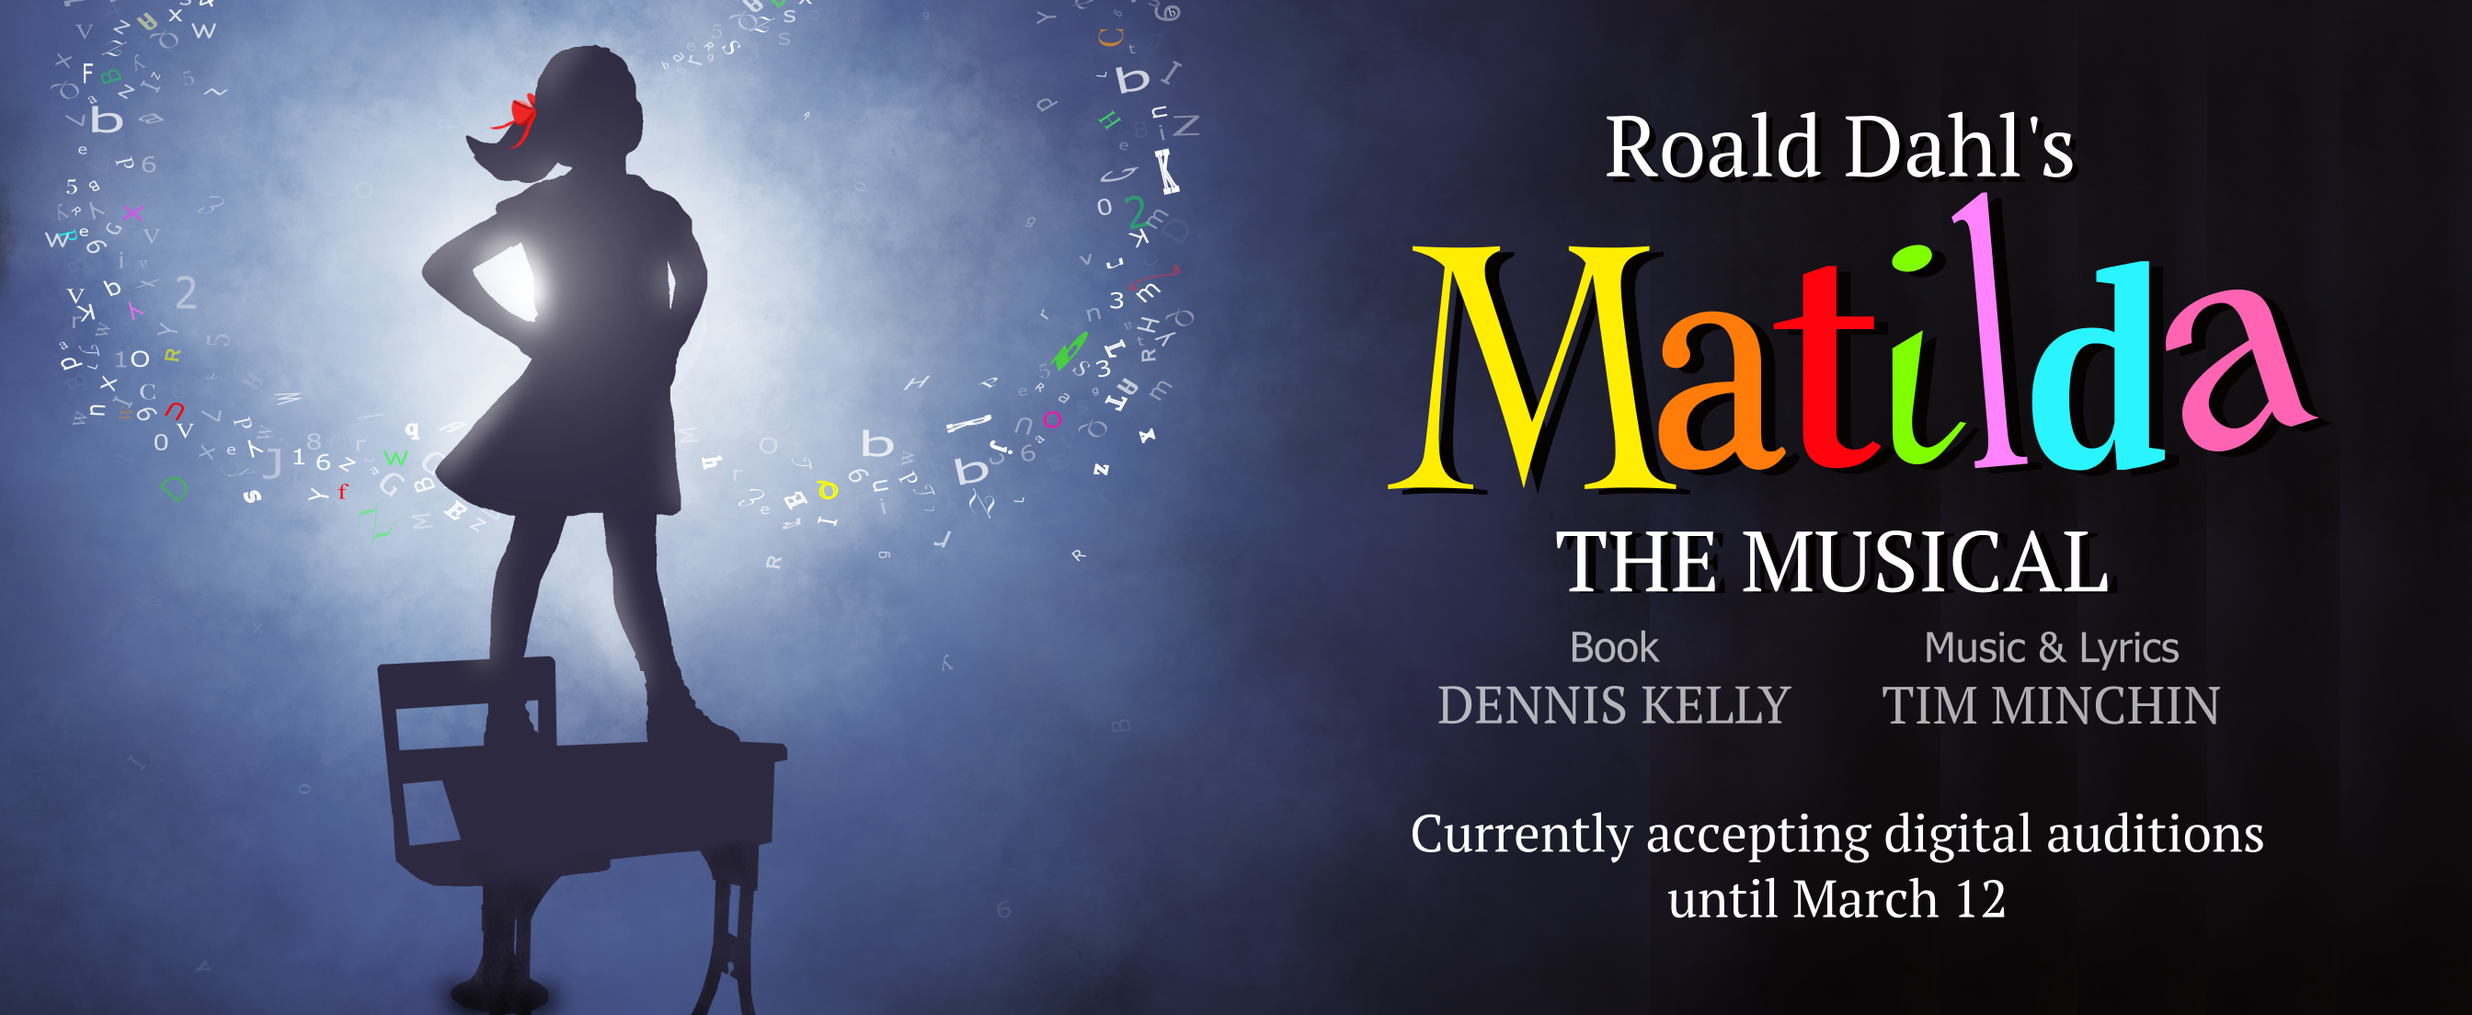
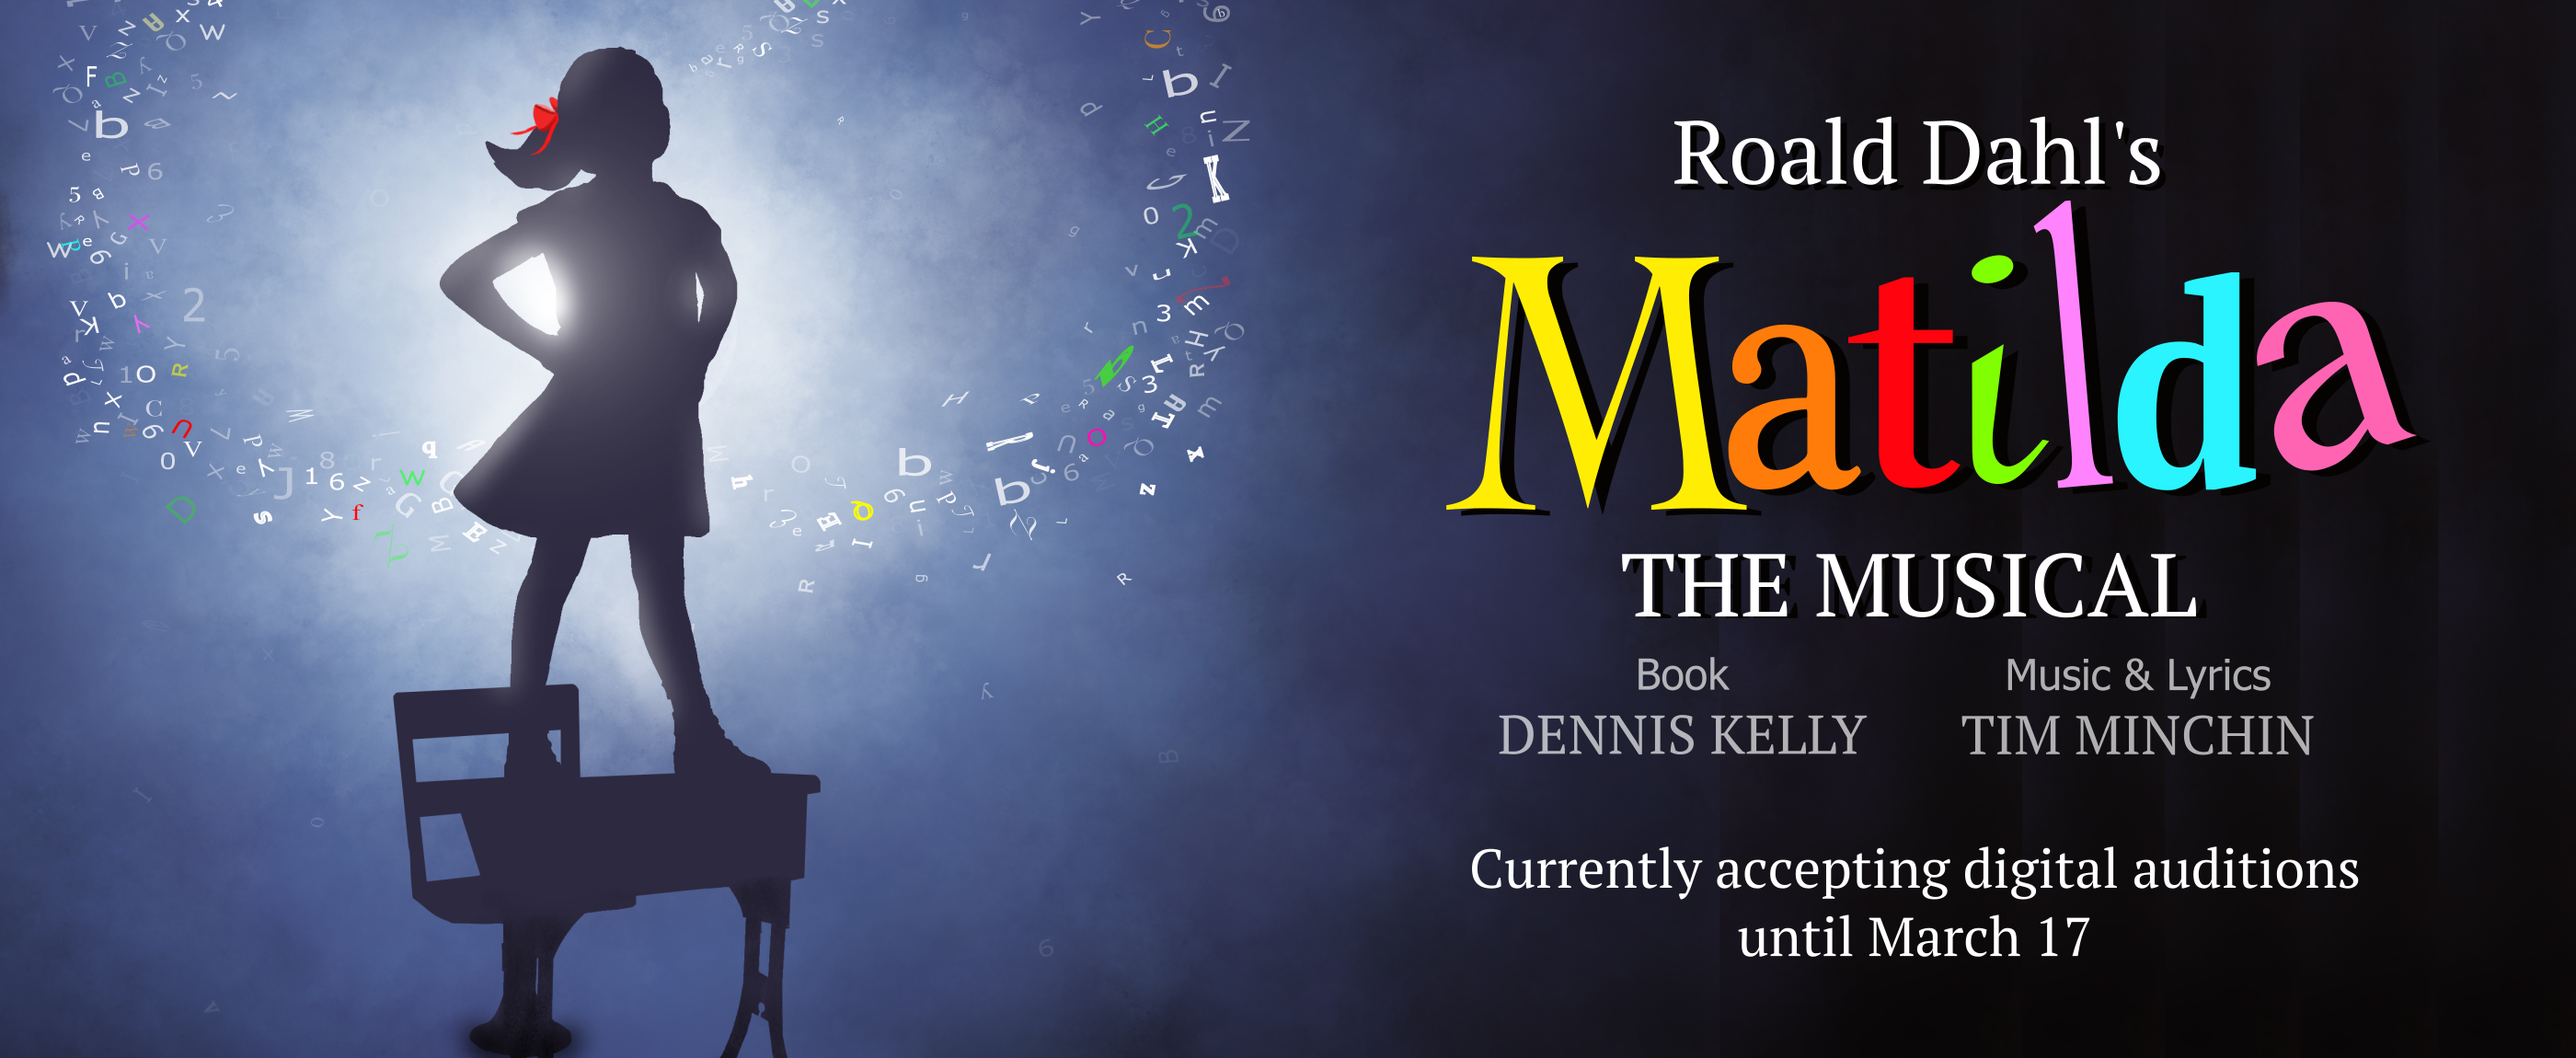
Update dates

Changed region(s): [[0.7812, 0.8623, 0.8125, 0.8931], [0.6875, 0.8623, 0.7188, 0.8931], [0.625, 0.8007, 0.6562, 0.8315]]

diff --git a/links/matilda-information.html b/links/matilda-information.html
@@ -61,12 +61,12 @@
 										<h3>Matilda the Musical</h3>
 									</header>
 									<p>
-										"Matilda the Musical" is a captivating stage adaptation of Roald Dahl's beloved children's novel, 
-										brought to life with whimsy, wit, and a touch of magic. Set in the heart of a darkly humorous world, 
-										the musical follows the extraordinary journey of Matilda Wormwood, a precocious young girl 
-										armed with intelligence, courage, and an unyielding spirit. With an enchanting score by 
-										Tim Minchin, the production unfolds as Matilda navigates the challenges of family, school, 
-										and self-discovery, ultimately triumphing over adversity and inspiring audiences of all 
+										"Matilda the Musical" is a captivating stage adaptation of Roald Dahl's beloved children's novel,
+										brought to life with whimsy, wit, and a touch of magic. Set in the heart of a darkly humorous world,
+										the musical follows the extraordinary journey of Matilda Wormwood, a precocious young girl
+										armed with intelligence, courage, and an unyielding spirit. With an enchanting score by
+										Tim Minchin, the production unfolds as Matilda navigates the challenges of family, school,
+										and self-discovery, ultimately triumphing over adversity and inspiring audiences of all
 										ages with its empowering message of resilience and the transformative power of imagination.
 									</p>
 									<footer>
@@ -106,7 +106,7 @@
 										<div class="col-8">
 											<h4>Choreographer: Annabelle Hibbard</h4>
 											<p>
-												Annabelle has been in theatre and dance her whole life, adding choreography to the mix in her college days. She is excited to work with the wonderful members of the community to bring to life the meaning of Matilda. 
+												Annabelle has been in theatre and dance her whole life, adding choreography to the mix in her college days. She is excited to work with the wonderful members of the community to bring to life the meaning of Matilda.
 											</p>
 										</div>
 										<div class="col-4">
@@ -115,7 +115,7 @@
 										<div class="col-8">
 											<h4>Stage Manager: Lizzy Pingry</h4>
 											<p>
-												Lizzy loves the back-stage tech life! She has stage managed or run tech for several shows and loves working with the amazing production team and actors. 
+												Lizzy loves the back-stage tech life! She has stage managed or run tech for several shows and loves working with the amazing production team and actors.
 											</p>
 										</div>
 										<div class="col-4">
@@ -124,7 +124,7 @@
 										<div class="col-8">
 											<h4>Assistant Stage Manager: Austin Griggs</h4>
 											<p>
-												
+
 											</p>
 										</div>
 										<div class="col-4">
@@ -159,7 +159,7 @@
 										</p>
 									</header>
 									<p>
-										<strong>Performance Dates: </strong>June 21st, 22nd (matinee and evening performance), & 24th, 2024 @ Madison Performing Arts Center. 
+										<strong>Performance Dates: </strong>June 21st, 22nd (matinee and evening performance), & 24th, 2024 @ Madison Performing Arts Center.
 										<li>
 											Evening Performances will be at 7:00pm, Matinee at 2:00pm
 										</li>
@@ -167,7 +167,7 @@
 									<p>
 										<strong>Rehearsals</strong> - held on Tuesday, Wednesday and Thursday evenings from 6:00-9:00 PM beginning <strong>with a mandatory cast/parent meeting Tuesday, April 2nd</strong>
 										<li>
-											Additional rehearsals will be added on Friday evenings and Saturday mornings during the month of June. 
+											Additional rehearsals will be added on Friday evenings and Saturday mornings during the month of June.
 										</li>
 										<li>
 											A detailed rehearsal schedule will be provided via email once the show has been cast.
@@ -185,9 +185,9 @@
 										</p>
 									</header>
 									<p>
-										Welcome to the auditions for "Matilda the Musical"! We are excited you are here and to announce 
-										that auditions for our upcoming production will be initially held digitally this year. In person 
-										auditions will be by invitation ONLY and will be held at the VFW. Please review the information below for 
+										Welcome to the auditions for "Matilda the Musical"! We are excited you are here and to announce
+										that auditions for our upcoming production will be initially held digitally this year. In person
+										auditions will be by invitation ONLY and will be held at the VFW. Please review the information below for
 										details on how to prepare for your audition and how to submit your digital audition.
 									</p>
 
@@ -205,8 +205,8 @@
 										<li>
 											Children 8-17 MUST have parent or guardian signature on the Google Audition form
 										<li>
-											All initial auditions (digital) MUST be submitted online via the Google Form provided by 
-											MARCH 12 at 11:59pm. No Exceptions.
+											All initial auditions (digital) MUST be submitted online via the Google Form provided by
+											MARCH 17 at 11:59pm. No Exceptions.
 										</li>
 									</section>
 
@@ -215,8 +215,8 @@
 											<h3>Digital Auditions</h3>
 										</header>
 										<p>
-											Digital auditions for Matilda will consist of a vocal submission in video form as well as a 
-											dance submission video. There will be no monologue required for the digital audition. 
+											Digital auditions for Matilda will consist of a vocal submission in video form as well as a
+											dance submission video. There will be no monologue required for the digital audition.
 										</p>
 									</section>
 
@@ -225,11 +225,11 @@
 											<h3>Vocal Submission</h3>
 										</header>
 										<p>
-											Please prepare 16-32 bars of a vocal selection in the style of the show. Please DO NOT 
-											choose a song from the show. Be sure your selection shows off both your vocal ability 
-											in the range you are comfortable in and your storytelling abilities. Be sure the vocals 
-											can be heard clearly above any recorded or live accompaniment. The vocal audition must be 
-											recorded live. We do not want old choir concerts or show performance recordings submitted. 
+											Please prepare 16-32 bars of a vocal selection in the style of the show. Please DO NOT
+											choose a song from the show. Be sure your selection shows off both your vocal ability
+											in the range you are comfortable in and your storytelling abilities. Be sure the vocals
+											can be heard clearly above any recorded or live accompaniment. The vocal audition must be
+											recorded live. We do not want old choir concerts or show performance recordings submitted.
 											DO NOT exceed a 1 minute recording for your vocal audition submission.
 										</p>
 									</section>
@@ -239,14 +239,14 @@
 											<h3>Dance Submission</h3>
 										</header>
 										<p>
-											Please submit a recording of you performing the dance steps provided in the dance step 
-											tutorial found below. Be sure to be dressed appropriately and have plenty 
-											of room to perform the steps. The recording should give us a full view of the person 
-											performing the steps. Please be aware, we are looking for a group of experienced dancers 
-											to cast as well as ensemble members who will be performing less intense dance steps. Don’t be 
-											discouraged to audition if you are not a dancer. 
+											Please submit a recording of you performing the dance steps provided in the dance step
+											tutorial found below. Be sure to be dressed appropriately and have plenty
+											of room to perform the steps. The recording should give us a full view of the person
+											performing the steps. Please be aware, we are looking for a group of experienced dancers
+											to cast as well as ensemble members who will be performing less intense dance steps. Don’t be
+											discouraged to audition if you are not a dancer.
 
-											The purpose of this dance audition is to see your general ability to move. If every step is 
+											The purpose of this dance audition is to see your general ability to move. If every step is
 											not exactly correct, that’s OK. Please just do your best and have fun with it!
 										</p>
 										<div style="text-align: center;">
@@ -271,14 +271,14 @@
 											<h3>Callbacks - Live Auditions</h3>
 										</header>
 										<li>
-											Callbacks will be held in person on <strong>March 19, 20 with a final callback on March 23</strong>. You will be notified by email if you are 
-											called back. If you are called back, you will be given a specific time to attend. 
+											Callbacks will be held in person on <strong>March 19, 20 with a final callback on March 23</strong>. You will be notified by email if you are
+											called back. If you are called back, you will be given a specific time to attend.
 											<ul>
 												<li>
 													<strong>March 19: 6:00-9:00 PM</strong>   (If invited to this audition, all music sides and script sides will be provided. If you are invited for a further dance callback you will be notified to dress appropriately).
 												</li>
 												<li>
-													<strong>March 20: 6:00-9:00 PM</strong>   (If invited to this audition, all music sides and script sides will be provided. If you are invited for a further dance callback you will be notified to dress appropriately). 
+													<strong>March 20: 6:00-9:00 PM</strong>   (If invited to this audition, all music sides and script sides will be provided. If you are invited for a further dance callback you will be notified to dress appropriately).
 												</li>
 												<li>
 													<strong>March 23: 9:00-1:00 PM</strong>   Final Callback by Invitation ONLY (will be notified after audition on March 20).
@@ -295,7 +295,7 @@
 										</li>
 										<li>
 											If for any reason, you are not cast in the show, we will gladly refund your participation fee. <strong>If you drop after the show is cast, you will forfeit all fees.</strong>
-										</li>	
+										</li>
 										<li>
 											All live auditions will be held at: VFW (Veterans of Foreign Wars), 480 W 2nd N, Rexburg, Idaho
 										</li>
@@ -313,7 +313,7 @@
 					<div class="row">
 						<!-- Shows -->
 						<section class="col-4 col-12-mobile">
-								
+
 							<ul class="divided">
 								<li>
 									<article class="post stub">
@@ -363,7 +363,7 @@
 
 						<!-- Links -->
 						<section class="col-4 col-12-mobile">
-								
+
 							<ul class="divided">
 								<li>
 									<article class="post stub">
